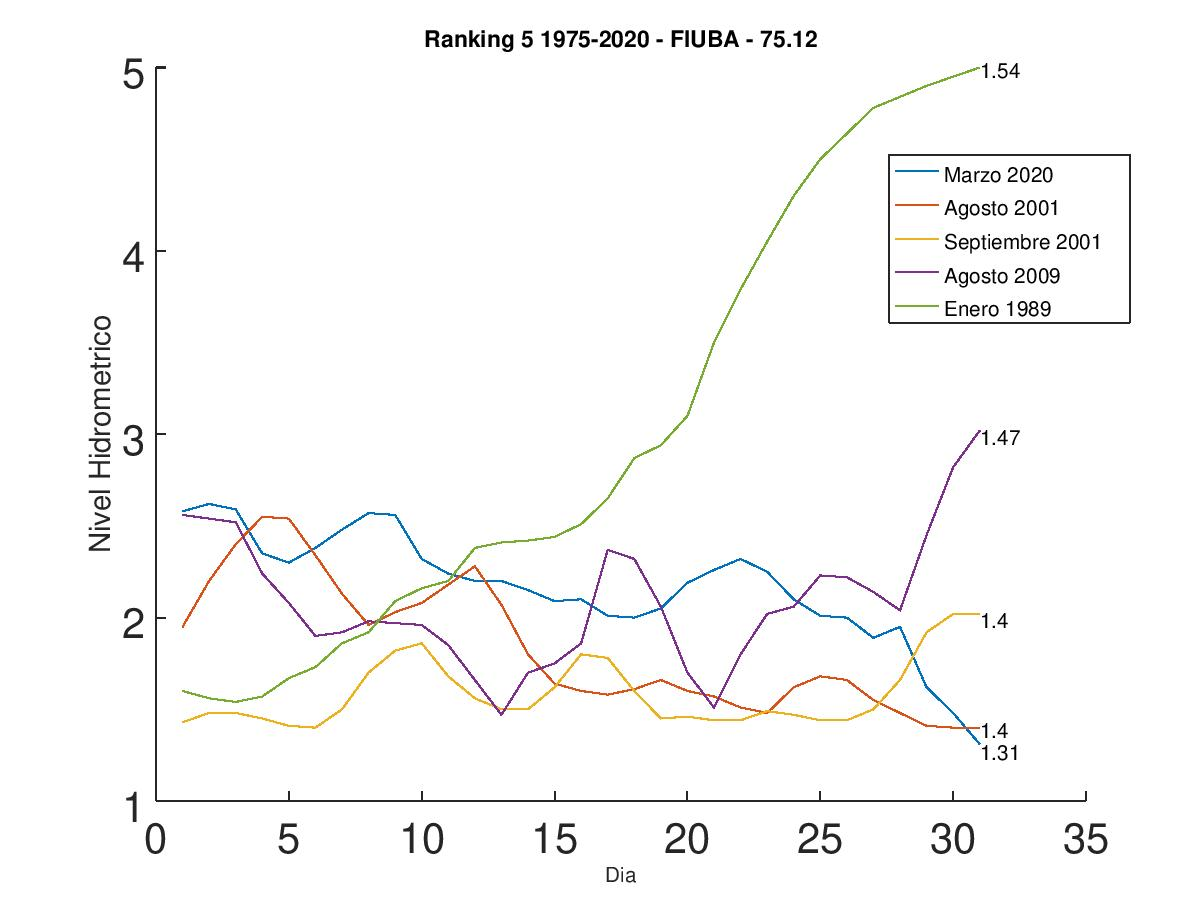
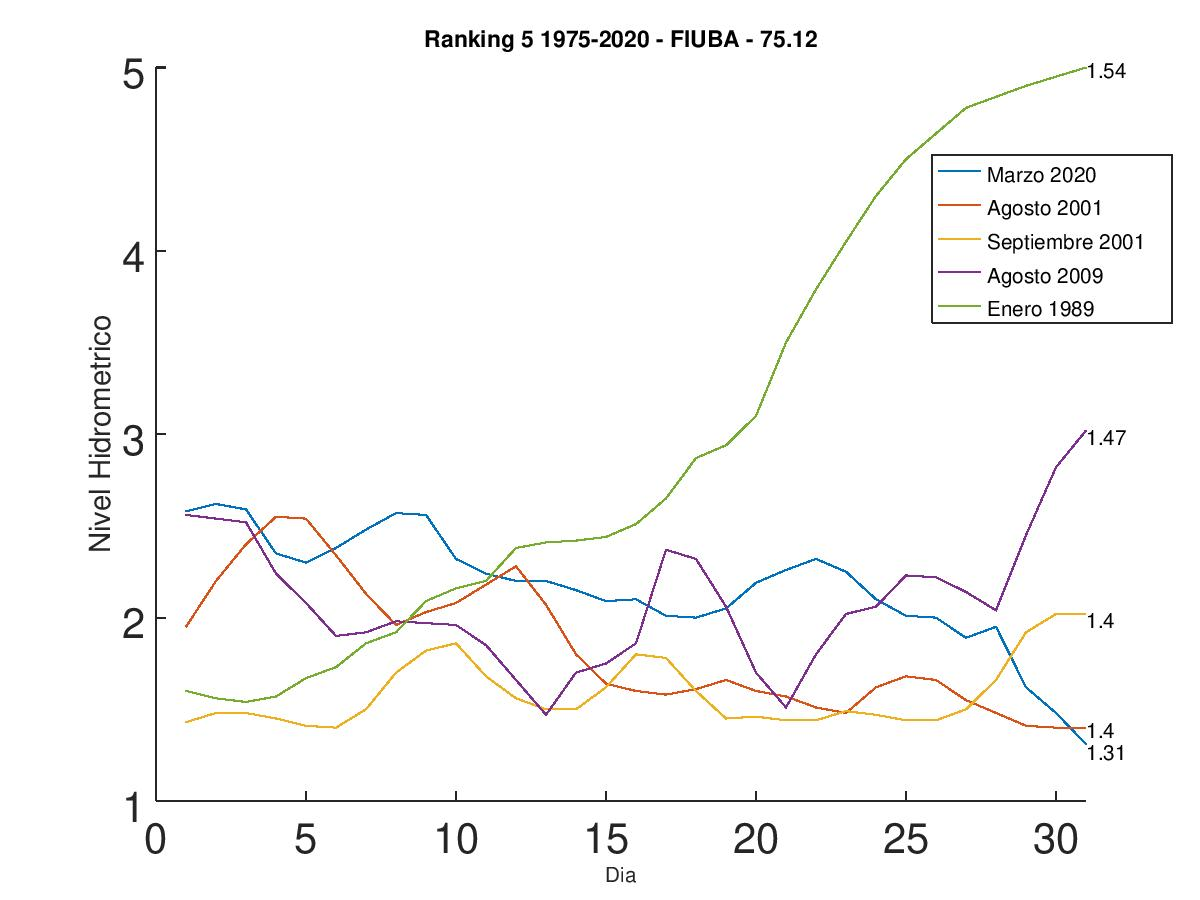
Cambios...

diff --git a/TPs_1c2020/TP1/graficador_ranking_bajantes_1975_2020.m b/TPs_1c2020/TP1/graficador_ranking_bajantes_1975_2020.m
@@ -17,6 +17,7 @@ legend("Marzo 2020","Agosto 2001","Septiembre 2001","Agosto 2009","Enero 1989");
 xlabel("Dia",'fontsize',10);
 ylabel("Nivel Hidrometrico",'fontsize',14);
 set(gca,'fontsize',20);
+set(gca (), "xlim",[0,31]);
 
 text(31,1.28,"1.31");
 text(31,1.4,"1.4");
@@ -24,4 +25,4 @@ text(31,2,"1.4");
 text(31,3,"1.47");
 text(31,5,"1.54");
 
-print -djpg "ranking_bajantes_1975-2020.jpg"
+%print -djpg "ranking_bajantes_1975-2020.jpg"
